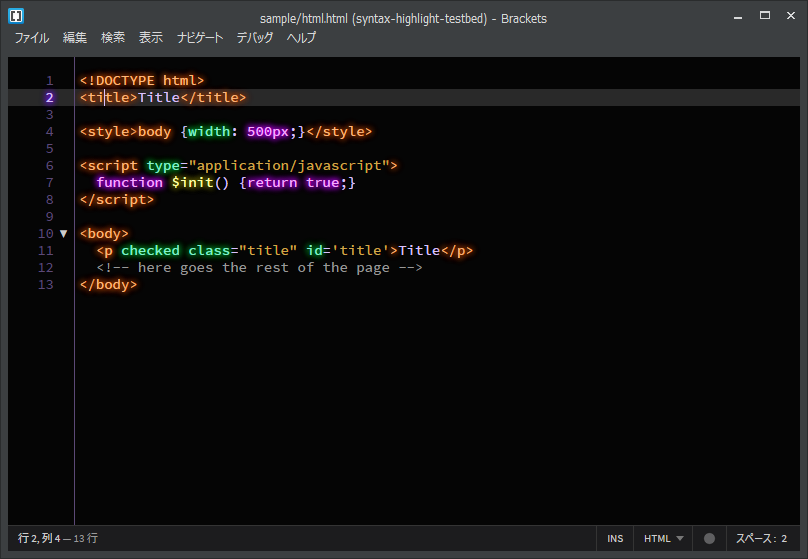
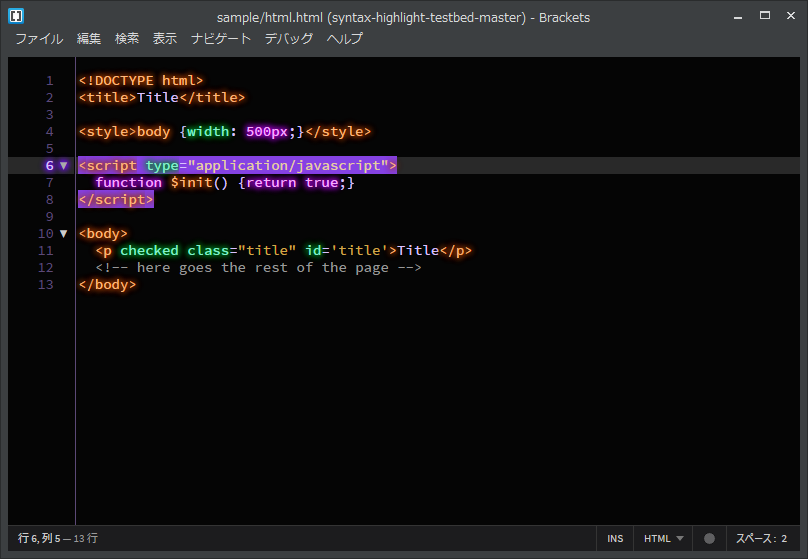
Enable the tag highlighting (fix #1)

Changed region(s): [[0.0, 0.2737, 0.9901, 0.517], [0.0, 0.1216, 0.9901, 0.2433], [0.0, 0.0, 0.7426, 0.0912]]

diff --git a/main.less b/main.less
@@ -13,6 +13,7 @@
 @activeline-bgcolor: lighten(@background, 14%);
 @matching-bracket: @background;
 @matching-bracket-bg: @foreground;
+@matching-tag-bg: desaturate(darken(@foreground, 30%), 20%);
 
 // Gutters and Line number
 @gutters-line: @nonactive;
@@ -110,8 +111,11 @@
     @shadow-property: box-shadow);
 }
 .CodeMirror-matchingtag {
-//   Disable tag matching
-  background: transparent;
+  background: @matching-tag-bg;
+}
+// Adjust the color of attribute value for highlighted HTML tag.
+.CodeMirror-matchingtag.cm-string {
+  color: lighten(@string, 20%);
 }
 
 // Active line
